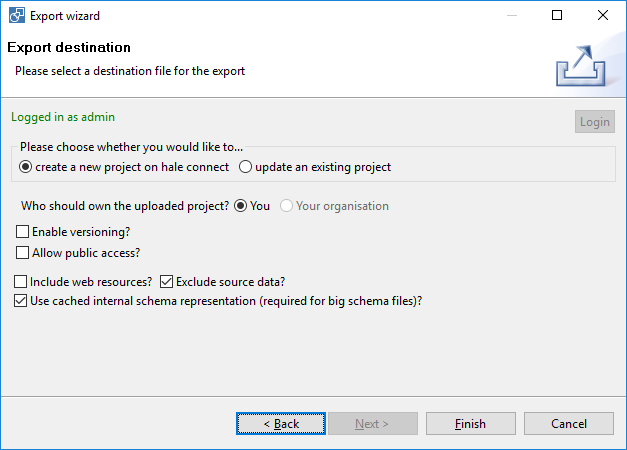
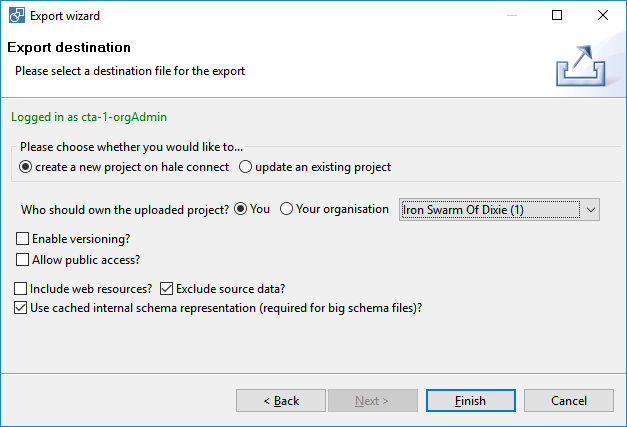
Updated documentation

diff --git a/doc/plugins/eu.esdihumboldt.hale.doc.user/html/reference/export/wfs.html b/doc/plugins/eu.esdihumboldt.hale.doc.user/html/reference/export/wfs.html
@@ -19,9 +19,22 @@
 		</li>
 		<li>The <strong>partitioned upload</strong> partitions the
 			transformed data before upload to be able to do multiple requests to
-			the WFS-T for large data sets. The partitioning is done based on the
-			references between features. Features that are connected are kept
-			together so the WFS-T is able to retain those references.
+			the WFS-T for large data sets. There are three options for the way
+			the data will be partitioned:
+			<ul>
+				<li>
+					<strong>Keep instances that reference each other together</strong>:
+					This is the default behaviour that used in previous versions of
+					<em>hale studio</em>. The partitioning is done based on the references 
+					between features. Features that are connected are kept together so the 
+					WFS-T is able to retain those references.
+				</li>
+				<li>
+					<strong>Cut strictly at threshold</strong>:
+					In this mode, the partitions will be cut exactly at the given threshold,
+					without taking mutual referencing of instances into account.
+				</li>
+			</ul>
 		</li>
 	</ul>
 	<p class="Note">The publishing to WFS in this version of <i>hale studio</i> is

diff --git a/doc/plugins/eu.esdihumboldt.hale.doc.user/html/tasks/haleconnect/shareproject.html b/doc/plugins/eu.esdihumboldt.hale.doc.user/html/tasks/haleconnect/shareproject.html
@@ -47,9 +47,11 @@
 	</p>
 	<p>
 		You must also choose whether you will be the owner of the uploaded 
-		project on <i>hale connect</i> or your organization. Note that only 
-		one option is available in cases where you are not allowed  to add 
-		projects in the name of your organization.
+		project on <i>hale connect</i> or one of your organizations. You must
+		select which of the organisations that you belong will own the uploaded 
+		project via the dropdown. Note that only the first option is available 
+		in cases where you are not allowed to add projects in the name of any of 
+		your organizations.
 	</p>
 	<h3>Options</h3>
 	<table>
@@ -80,7 +82,7 @@
 			<td><i>Use cached internal schema representation?</i></td>
 			<td>
 				Upload (if available) the internal hale schema definition instead of the schema resource. 
-				This is especially useful in cases where a big Shape file is used as the source for both 
+				This is especially useful in cases where a big Shapefile is used as the source for both 
 				schema and data. 
 			</td>
 		</tr>
